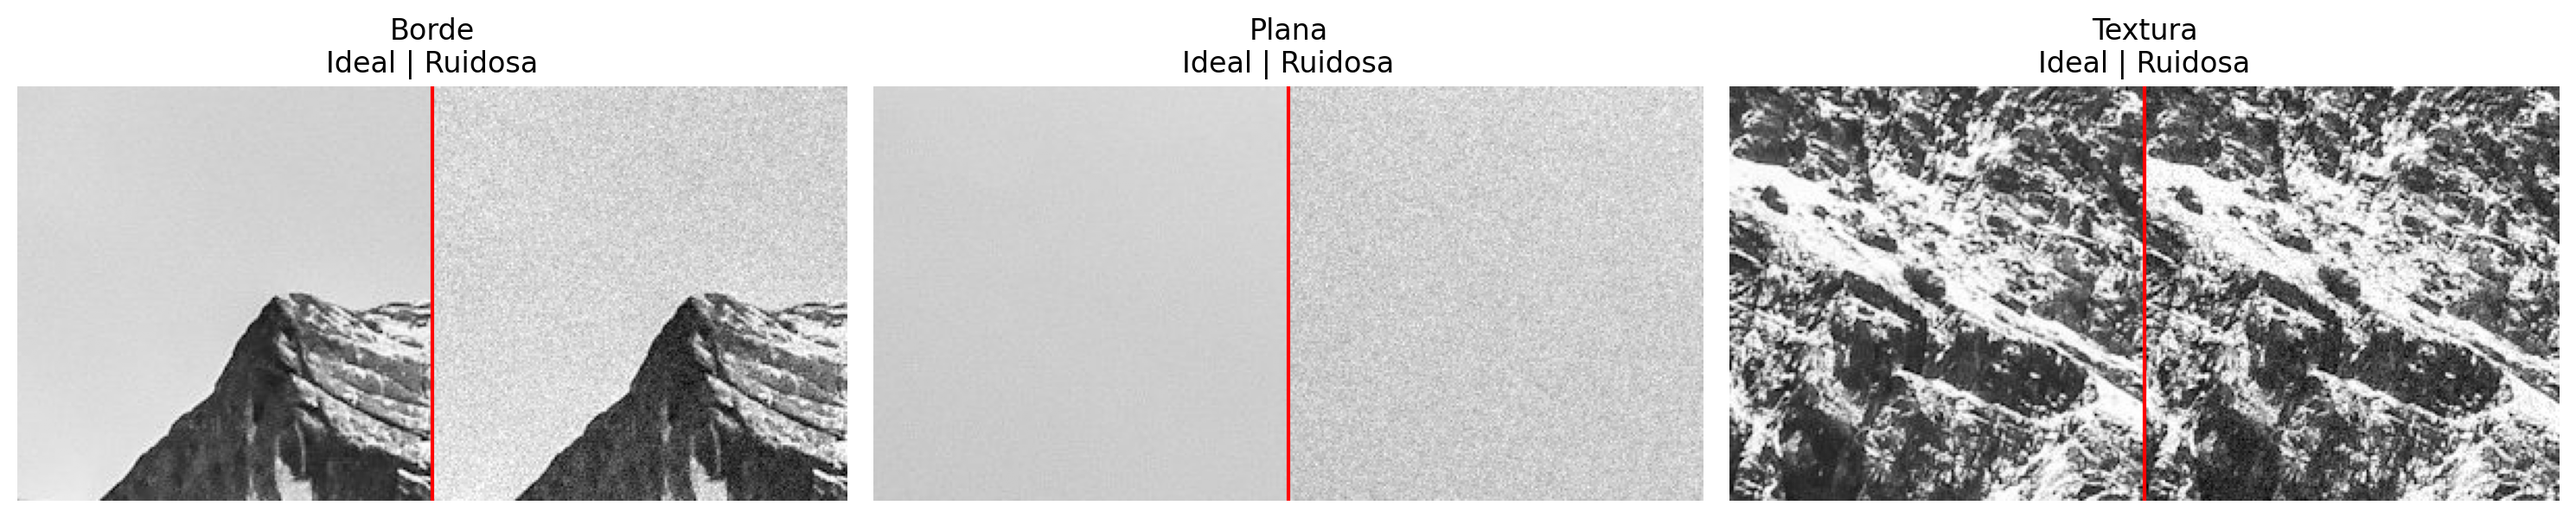
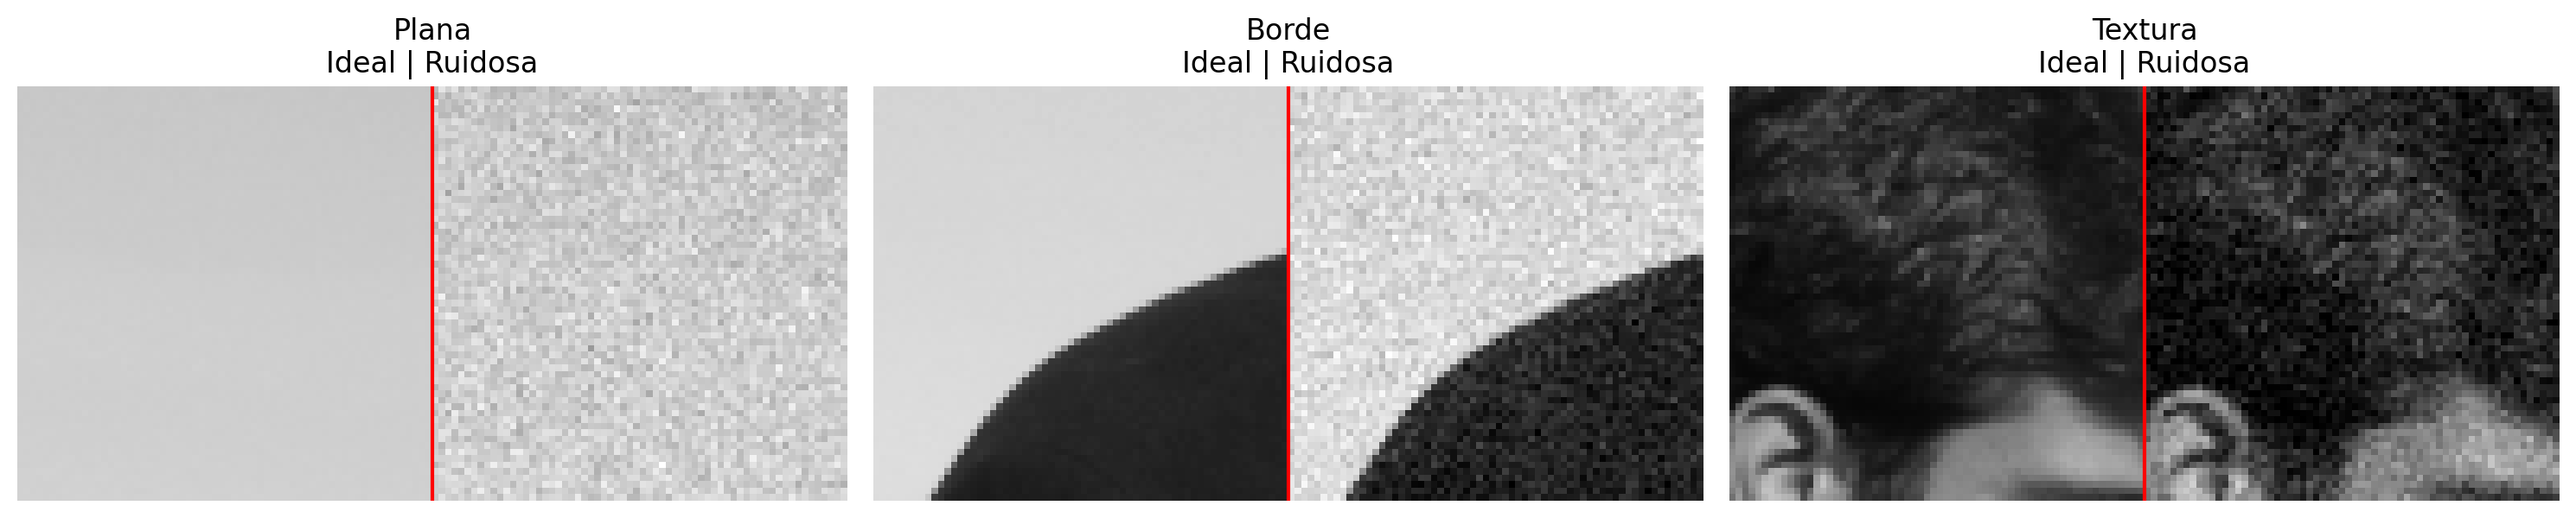
exp2

diff --git a/Pregunta 2/experimentacion2.py b/Pregunta 2/experimentacion2.py
@@ -1,0 +1,117 @@
+import os
+import numpy as np
+import matplotlib.pyplot as plt
+from implementacion import (agregar_ruido_gaussiano, grad_mag, rmse, coef_tv, 
+                            difusion_anisotropica, lambda_estable, SIGMA_RUIDO, SEMILLA)
+from experimentacion import cargar_imagen, sl 
+if __name__ == '__main__':
+    ruta = "Pregunta 2/figures_p2"
+    os.makedirs(ruta, exist_ok=True)
+    
+    # 1. Preparación de imagen: se toma la imagen taza y cámara por que cordillera es muy grande y los tiempos de ejecución son muy largos.
+    #x = cargar_imagen('Pregunta 2/imagen1.png') # Taza
+    x = cargar_imagen()                         # Cámara (skimage)
+    #x = cargar_imagen('Pregunta 2/imagen2.png') # Cordillera
+    y = agregar_ruido_gaussiano(x)
+    gx_, gy_ = grad_mag(x), grad_mag(y)
+
+    
+    resultados = {}
+    
+    # ESCENARIO A: Evolución demasiado lenta
+    # Causa: Un eps minúsculo obliga a un lam minúsculo. Pocas iteraciones no hacen nada.
+    
+    eps_lento = 0.0001
+    lam_lento = lambda_estable(1.0 / eps_lento) # Queda en 0.000025
+    iter_lento = 100
+    
+    print(f"-> A) Ejecutando evolución lenta (eps={eps_lento}, lam={lam_lento:.6f}, iter={iter_lento})")
+    u_lento, info_lento = difusion_anisotropica(y, coef_tv(eps_lento), lam_lento, iter_lento, referencia=x)
+    resultados['Lento'] = (u_lento, f"Evolución muy lenta\n$\epsilon={eps_lento}$, $\lambda={lam_lento:.6f}$\nIter: {iter_lento}\nRMSE={info_lento['rmse'][-1]:.4f}")
+
+    
+    # ESCENARIO B: Sobre-suavizado
+    # Causa: Un eps muy grande convierte a TV casi en un filtro Gaussiano global.
+    # Con muchas iteraciones, destruye la imagen.
+    
+    eps_sobre = 2.0
+    lam_sobre = 0.2  # Seguro, ya que c_max es aprox 0.5 (1/2)
+    iter_sobre = 400
+    
+    print(f"-> B) Ejecutando sobre-suavizado (eps={eps_sobre}, lam={lam_sobre}, iter={iter_sobre})")
+    u_sobre, info_sobre = difusion_anisotropica(y, coef_tv(eps_sobre), lam_sobre, iter_sobre, referencia=x)
+    resultados['Sobresuavizado'] = (u_sobre, f"Sobre-suavizado\n$\epsilon={eps_sobre}$, $\lambda={lam_sobre}$\nIter: {iter_sobre}\nRMSE={info_sobre['rmse'][-1]:.4f}")
+
+    
+    # ESCENARIO C: Problemas Numéricos (Inestabilidad / Explosión)
+    # Causa: Violar la condición de estabilidad CFL.
+    # lam > 1 / (4 * c_max).
+    
+    eps_inestable = 0.01
+    cmax_teorico = 1.0 / eps_inestable # 100
+    lam_limite = 1.0 / (4.0 * cmax_teorico) # 0.0025
+    
+    lam_inestable = lam_limite * 1.5 # FORZAMOS LA RUPTURA DEL LÍMITE (0.00375)
+    iter_inestable = 150
+    
+    print(f"-> C) Ejecutando inestabilidad (eps={eps_inestable}, lam={lam_inestable} [Límite era {lam_limite}], iter={iter_inestable})")
+    u_inestable, info_inestable = difusion_anisotropica(y, coef_tv(eps_inestable), lam_inestable, iter_inestable, referencia=x)
+    
+    # Manejar si la imagen tiene NaNs o valores gigantes por la explosión numérica
+    if info_inestable['diverge_en'] is not None:
+        msj_diverge = f"¡DIVERGIÓ en iter {info_inestable['diverge_en']}!"
+        # Recuperar la última captura guardada sana si existe, o usar clip
+        u_inestable = np.clip(u_inestable, 0, 1) 
+    else:
+        msj_diverge = "Inestable pero no colapsó"
+        
+    resultados['Inestable'] = (u_inestable, f"Inestabilidad numérica\n$\epsilon={eps_inestable}$, $\lambda={lam_inestable}$\n{msj_diverge}")
+
+    
+    # VISUALIZACIÓN
+    
+    fig, ax = plt.subplots(1, 4, figsize=(20, 5.5))
+    
+    # 1. Ruidosa (Referencia)
+    ax[0].imshow(y, cmap='gray', vmin=0, vmax=1)
+    ax[0].set_title(f"Imagen Ruidosa Original\nRMSE={rmse(x,y):.4f}")
+    ax[0].axis('off')
+    
+    # 2. Lenta
+    ax[1].imshow(resultados['Lento'][0], cmap='gray', vmin=0, vmax=1)
+    ax[1].set_title(resultados['Lento'][1])
+    ax[1].axis('off')
+    
+    # 3. Sobre-suavizada
+    ax[2].imshow(resultados['Sobresuavizado'][0], cmap='gray', vmin=0, vmax=1)
+    ax[2].set_title(resultados['Sobresuavizado'][1])
+    ax[2].axis('off')
+    
+    # 4. Inestable
+    # Si la imagen explotó, mostrar el "ruido de sal y pimienta" extremo truncado
+    ax[3].imshow(resultados['Inestable'][0], cmap='gray', vmin=0, vmax=1)
+    ax[3].set_title(resultados['Inestable'][1], color='red')
+    ax[3].axis('off')
+    
+    plt.tight_layout()
+    plt.savefig('Pregunta 2/figures_p2/p2_exp2_inadecuados.png', dpi=130)
+    plt.show()
+
+    # ---- Gráfico extra: Comportamiento del RMSE en la explosión ----
+    fig_err, ax_err = plt.subplots(figsize=(7, 4))
+    
+    rmse_inestable = info_inestable['rmse']
+    ax_err.plot(rmse_inestable, color='red', label=f'Inestable (λ={lam_inestable})')
+    ax_err.plot(info_lento['rmse'], color='blue', label='Evolución lenta')
+    
+    ax_err.axhline(rmse(x,y), color='gray', linestyle='--', label='RMSE Inicial (ruidosa)')
+    ax_err.set_title("RMSE a través de las iteraciones")
+    ax_err.set_xlabel("Iteraciones")
+    ax_err.set_ylabel("RMSE")
+    ax_err.set_ylim(0, max(rmse(x,y) * 2, np.nanmax(rmse_inestable[:50]))) # Acotamos el eje Y porque la inestable se va a infinito
+    ax_err.grid(alpha=0.3)
+    ax_err.legend()
+    
+    plt.tight_layout()
+    plt.savefig('Pregunta 2/figures_p2/p2_exp2_inadecuados_rmse.png', dpi=130)
+    plt.show()

diff --git a/Pregunta 2/experimentacion.py b/Pregunta 2/experimentacion.py
@@ -17,11 +17,13 @@ from implementacion import (agregar_ruido_gaussiano, rmse, grad_mag,
 EPSILONS = [0.005, 0.05, 0.1, 0.5, 1.0]
 FACTOR_LAM = 0.5          # lam = FACTOR_LAM * 1/(4*cmax)
 N_MAX = 300
-ROIS = {                  # (fila0, fila1, col0, col1) en la imagen cordillera
-    'Borde':      (1230,1430, 550, 750),
-    'Plana':      (830, 1030, 330, 530),
-    'Textura':    (1180, 1380, 1300, 1500),
-} 
+
+#ROIS = {'Borde': (1230,1430, 550, 750), 'Plana': (830, 1030, 330, 530),'Textura': (1180, 1380, 1300, 1500),} 
+ROIS = {                  # (fila0, fila1, col0, col1) en la imagen 'camera' 512x512
+    'Plana'     :      (10, 74, 10, 74),
+    'Borde'     :      (100, 164, 51, 115),
+    'Textura'   :    (80, 144, 180, 244),
+}
 ruta = "Pregunta 2/figures_p2"
 def cargar_imagen(ruta=None):
     if ruta is None:
@@ -41,16 +43,16 @@ def cargar_imagen(ruta=None):
 def sl(r):
     return (slice(r[0], r[1]), slice(r[2], r[3]))
 
-r_cordillera = sl([1230, 1480, 550, 1070])
-
+#r_corte = sl([1230, 1480, 550, 1070])
+r_corte = sl ( [60, 124, 190, 254] ) # Borde
 
 
 if __name__ == '__main__':
 
     os.makedirs(ruta, exist_ok=True)
-    #x = cargar_imagen('Pregunta 2/imagen2.png') # Taza
-    #x = cargar_imagen()                         # Cámara (skimage)
-    x = cargar_imagen('Pregunta 2/imagen2.png') # Cordillera
+    #x = cargar_imagen('Pregunta 2/imagen1.png') # Taza
+    x = cargar_imagen()                         # Cámara (skimage)
+    #x = cargar_imagen('Pregunta 2/imagen2.png') # Cordillera
     y = agregar_ruido_gaussiano(x)
     gx_, gy_ = grad_mag(x), grad_mag(y)
     res = {}
@@ -68,11 +70,11 @@ if __name__ == '__main__':
     
 
     fig_slice, ax_slice = plt.subplots(1, 2, figsize=(12, 5))
-    ax_slice[0].imshow(x[r_cordillera], cmap="gray", vmin=0, vmax=1)
+    ax_slice[0].imshow(x[r_corte], cmap="gray", vmin=0, vmax=1)
     ax_slice[0].set_title("Recorte: imagen ideal")
     ax_slice[0].axis("off")
 
-    ax_slice[1].imshow(y[r_cordillera], cmap="gray", vmin=0, vmax=1)
+    ax_slice[1].imshow(y[r_corte], cmap="gray", vmin=0, vmax=1)
     ax_slice[1].set_title("Recorte: imagen ruidosa")
     ax_slice[1].axis("off")
 
@@ -121,7 +123,7 @@ if __name__ == '__main__':
     for eps in EPSILONS:
         u = res[eps]['u']
         print(f'{eps:7g}' + ''.join(f'{rmse(x[sl(r)], u[sl(r)]):22.4f}' for r in ROIS.values()))
-    print('\nRetención: textura = std(u)/std(x) en pasto; borde = p99|grad u| / p99|grad x| en cabeza')
+    print('\nRetención: textura = std(u)/std(x); borde = p99|grad u| / p99|grad x|')
     rt, rb = ROIS['Textura'], ROIS['Borde']
     print(f'  referencia ruidosa: textura {y[sl(rt)].std()/x[sl(rt)].std():.3f}  borde {np.percentile(gy_[sl(rb)],99)/np.percentile(gx_[sl(rb)],99):.3f}')
     for eps in EPSILONS:
